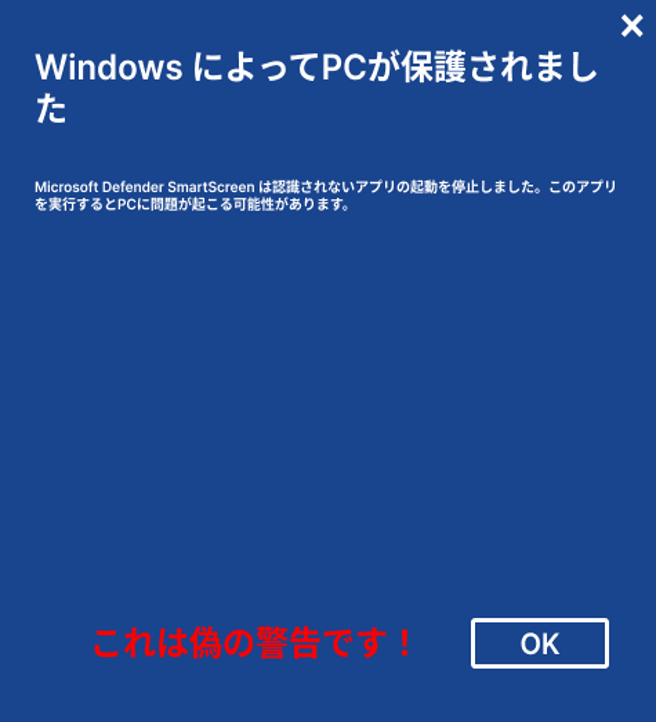
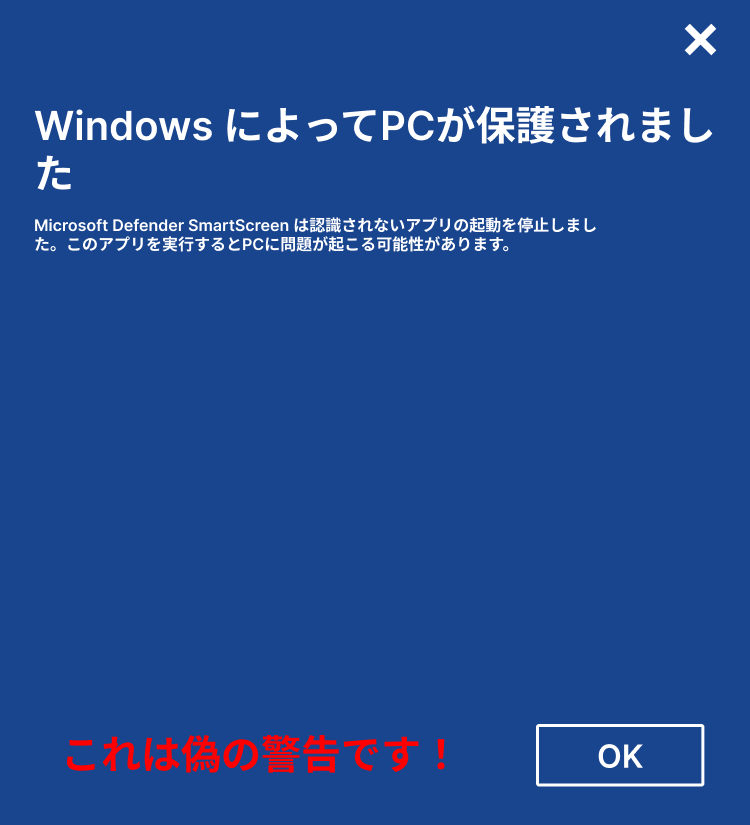
偽警告(仮)

diff --git a/cursor/css/cursor.css b/cursor/css/cursor.css
@@ -1,22 +1,128 @@
-html {
-    cursor: none;
+html,body {
+  overflow: hidden;
 }
 
 body {
-    
-    background-size: cover;
-    background-repeat: no-repeat;
+  background-image: url("../windows_screen.png");
+  background-size: cover; /* 背景画像が常にビューポートをカバー */
+  background-position: center; /* 背景画像を中央に配置 */
+  margin: 0;
+  height: 100vh; /* ビューポートの高さに合わせる */
+  width: 100vw; /* ビューポートの幅に合わせる */
 }
 
-img {
-    cursor: default;
-    place-items: center;
-    margin-top: 15%;
-    
-  }
+/* スクリーンの設定 */
+.screen {
+  width: 100%;
+  height: 100vh;
+  position: relative;
+}
 
-  div {
-    text-align: center;
-  }
+.first_screen {
+  padding-left: 10px;
+  position: absolute;
+  opacity: 1;
+  pointer-events: auto;
+  width: 100%;
+  height: 100%;
+  background-color: white;
+  z-index: 2;
+}
 
-     
+.first_screen.active {
+  opacity: 0;
+  pointer-events: none;
+  display: none; /* .first_screenを非表示に */
+  z-index: -1;
+}
+
+/* windows_screen.png 以外の画像にカーソルを表示する */
+.relative.active img:not([src="tell.png"]) {
+  cursor: pointer; /* それ以外の画像にはカーソルを表示 */
+}
+
+/* windows_screen.png 上でカーソルを隠す */
+.relative.active img[src="tell.png"] {
+  cursor: none; /* windows_screen.png の上ではカーソルを隠す */
+}
+
+.relative {
+  opacity: 0;
+  pointer-events: none;
+  cursor: none;
+  position: absolute;
+  z-index: 1;
+}
+
+.relative.active {
+  opacity: 1;
+  pointer-events: auto;
+  background-image: url("../windows_screen.png");
+  position: absolute;
+  top: 0;
+  left: 0;
+  width: 100%;
+  height: 100%;
+  background-size: cover;
+  background-position: center;
+  background-repeat: no-repeat;
+  text-align: center;
+  z-index: 1;
+}
+
+.windows {
+  margin-top: 5%;
+}
+
+.relative.active img.absolute {
+  position: absolute;
+  top: 55%;
+  left: 50%;
+  transform: translate(-50%, -50%);
+}
+
+/* アニメーションの設定 */
+.updown {
+  animation-name: UpDown;
+  animation-duration: 1.5s;
+  animation-iteration-count: infinite;
+  animation-timing-function: ease-in-out;
+  animation-direction: alternate;
+  position: absolute;
+  top: 68%;
+  left: 78%;
+}
+
+.emergency {
+  position:absolute;
+  cursor: pointer;
+  background-color: orange;
+  border-radius: 25px;
+  max-width: 530px;
+  padding: 10px;
+  margin-top: 40px;
+  margin-left: 10px;
+  opacity: 0; /* 初期状態では非表示 */
+  animation: float 2s ease-in-out forwards; /* アニメーションの設定 */
+  animation-delay: 10s; /* 10秒後にアニメーションが開始 */
+}
+
+@keyframes UpDown {
+  0% {
+    transform: translateY(0);
+  }
+  100% {
+    transform: translateY(50px);
+  }
+}
+
+@keyframes float {
+  0% {
+    top: 30px;
+    opacity: 0;
+  }
+  100% {
+    top: 0; /* フロートさせる高さ */
+    opacity: 1; /* 最終的に不透明にする */
+  }
+}

diff --git a/cursor/js/chat.js b/cursor/js/chat.js
@@ -1,0 +1,61 @@
+window.addEventListener('load', function () {
+    // フルスクリーン表示
+   document.getElementById('button1').addEventListener('click', function () {
+        // フルスクリーンモードを要求
+        if (document.body.requestFullscreen) {
+            document.body.requestFullscreen();
+        } else if (document.body.mozRequestFullScreen) { // Firefox用
+            document.body.mozRequestFullScreen();
+        } else if (document.body.webkitRequestFullscreen) { // Safari/Chrome用
+            document.body.webkitRequestFullscreen();
+        } else if (document.body.msRequestFullscreen) { // IE用
+            document.body.msRequestFullscreen();
+        } 
+
+        // 画面切り替え処理
+        const screenA = document.querySelector('.first_screen');
+        const screenB = document.querySelector('.relative');
+
+        // .first_screenを非表示にし、.relativeを表示
+        screenA.classList.add('active'); // .first_screenを非表示に
+        screenB.classList.add('active'); // .relativeを表示
+
+        // button1を非表示にする
+        const button1 = document.getElementById('button1');
+        button1.style.display = 'none'; // button1を非表示に
+    });
+
+    // ひとつ前の画面に戻る処理
+    function goBack() {
+        // フルスクリーンを解除する処理
+        if (document.exitFullscreen) {
+            document.exitFullscreen();  // フルスクリーンを解除
+        } else if (document.mozCancelFullScreen) { // Firefox用
+            document.mozCancelFullScreen();
+        } else if (document.webkitExitFullscreen) { // Safari/Chrome用
+            document.webkitExitFullscreen();
+        } else if (document.msExitFullscreen) { // IE用
+            document.msExitFullscreen();
+        }
+
+        // 履歴から前のページに戻る
+        window.history.back(); // 履歴から前のページに戻る
+    }
+
+    // button2がクリックされた時
+    document.getElementById('button2').addEventListener('click', goBack);
+
+    // button3がクリックされた時も同じ処理を実行
+    document.getElementById('button3').addEventListener('click', goBack);
+
+    async function startFullscreen(){
+        try{
+            await navigator.keyboard.lock(["Escape", "F11"]);
+            await document.documentElement.requestFullscreen();
+        } catch(error){
+            console.error("エラー:", error);
+        }
+    }
+
+    document.getElementById("button1").addEventListener("click", startFullscreen);
+});

diff --git a/cursor/cursor.html b/cursor/cursor.html
@@ -7,10 +7,26 @@
   <link rel="stylesheet" href="css/cursor.css">
   <title>cursor</title>
 </head>
-<body background="windows_screen.png">
-  <div>
-    <!--<img src="nise_windows.png" alt="偽Windows">-->
-    <img src="nise_worning.png" alt="偽警告">
+<body>
+  <div class="screen">
+
+    <div class="first_screen">
+      <h1>あなたは騙されました</h1>
+      <p>↓これを押すと偽警告画面に飛びます</p>
+      <button id="button1">フルスクリーン表示</button>
+      <button id="button2">ひとつ前の画面に戻る</button>
+    </div>
+
+    <div class="relative">
+      <div class="emergency">
+        <p>ここに操作説明や緊急時の説明を書くといいと思います。あああああああああああああああああああああああああああああああああ</p>
+        <button id="button3">ひとつ前の画面に戻る</button>
+      </div>
+      <img src="nise_windows.png" alt="偽Windows" width="780px" class="windows">
+      <img src="nise_worning.png" alt="偽警告" width="800px" class="absolute">
+      <div class="updown"><img src="tell.png" alt="カスタマー" width="380px"></div>
+    </div>
+
   </div>
 
   <script src="js/chat.js"></script>
